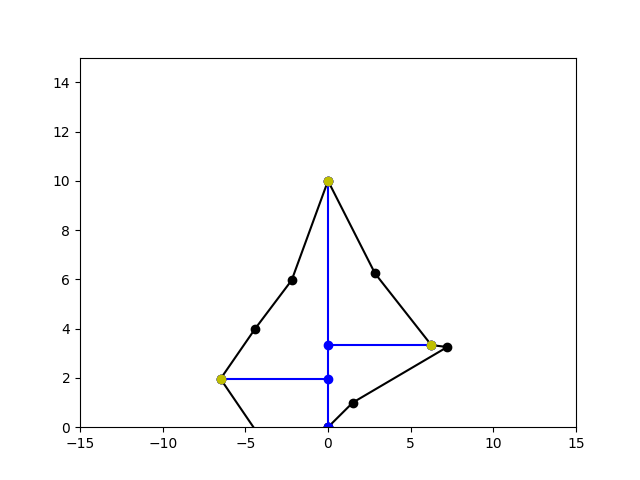
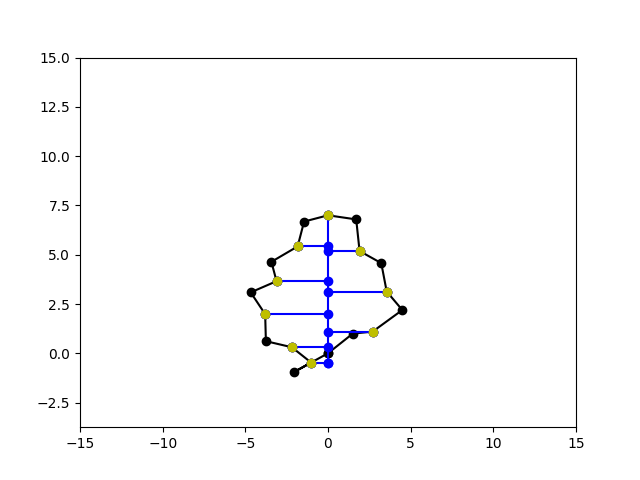
new_images added

diff --git a/Prototype1/growth.py b/Prototype1/growth.py
@@ -33,6 +33,7 @@ def bounding_distances(list_of_pts, left_pt, right_pt):
     for point in list_of_pts:
         pos.append(point.pos)
     # calculate distances to left
+    # print(f"pos: {pos}, left_pt.pos {[left_pt.pos]}")
     euc_res_left = euclidean_distances(pos, [left_pt.pos])
     # calculate distances to right
     euc_res_right = euclidean_distances(pos, [right_pt.pos])
@@ -41,9 +42,7 @@ def bounding_distances(list_of_pts, left_pt, right_pt):
     return euc_res_left, euc_res_right
 
 
-# LEAF DEVELOPMENT FUNCTIONS
-
-def interpolate_pts(pt_A, pt_B, leaf):
+def interpolate_pts(pt_A, pt_B, leaf, mustAdd):
     """Given two positions a new point is created between these points by linear interpolation"""
     x = [pt_A.pos[0], pt_B.pos[0]]
     y = [pt_A.pos[1], pt_B.pos[1]]
@@ -51,19 +50,30 @@ def interpolate_pts(pt_A, pt_B, leaf):
     xnew = np.linspace(x[0], x[1], num=3, endpoint=True)
     f = interp1d(x, y, kind='linear')
     ynew = f(xnew)
-    new_pt = Point([xnew[1], ynew[1]], 0, leaf.primordium_vein, 0, 0)
-    leaf.margin.insert_point(new_pt)
+
+    if mustAdd:
+        new_pt = Point([xnew[1], ynew[1]], 0, leaf.primordium_vein, 0, 0)
+        leaf.margin.insert_point(new_pt)
+    return [xnew[1], ynew[1]]
 
 
-def initialize_growth(leaf):
+# LEAF DEVELOPMENT FUNCTIONS
+
+def init_cp_indicators(leaf):
     cp_indicators, cp_index = leaf.margin.get_cp_indicators()
     print(f"cp_indicators:  {cp_indicators}, cp_index: {cp_index}")
     # check if points need to be interpolated
     if len(cp_index) > 1:
         prev_i = 0
+        # interpolate for the 0 index (separate due to special case index slicing)
+        if cp_index[0] == 1:
+            interpolate_pts(leaf.margin.points[0], leaf.margin.points[1], leaf, True)
+            cp_indicators, cp_index = leaf.margin.get_cp_indicators()
+            print(f"cp_indicators:  {cp_indicators}, cp_index: {cp_index}")
+        # interpolate if there are no points between cp
         for i in range(1, len(cp_index)):
             if (cp_index[i] - cp_index[prev_i]) <= 1:
-                interpolate_pts(leaf.margin.points[cp_index[prev_i]], leaf.margin.points[cp_index[i]], leaf)
+                interpolate_pts(leaf.margin.points[cp_index[prev_i]], leaf.margin.points[cp_index[i]], leaf, True)
                 # recalculate cp_indicators
                 cp_indicators, cp_index = leaf.margin.get_cp_indicators()
                 print(f"cp_indicators:  {cp_indicators}, cp_index: {cp_index}")
@@ -79,6 +89,7 @@ def hard_coded_cp_addition(leaf):
     leaf.margin.points[7].is_cp = 1
     # leaf.margin.points[8].is_cp = 1
     leaf.margin.check_conv_points()
+    return leaf
 
 
 def create_anchor_point(cp, vein_assoc):
@@ -95,12 +106,15 @@ def create_anchor_point(cp, vein_assoc):
     return anchor_pt
 
 
-def vein_addition(leaf, vein):
+def vein_addition(leaf):
     """Connects unconnected Cp's with vein and adds new vein to leaf."""
     for cp in leaf.margin.all_cp:
+        print(f"creating new vein for: {cp}")
         if cp.has_vein == 1:  # skip if already connected to a vein
+            print("has vein")
             continue
         else:
+            print("making new vein")
             # create new vein
             anchor_pt = create_anchor_point(cp, cp.vein_assoc)
             new_vein = Vein([anchor_pt, cp], anchor_pt, cp)
@@ -113,12 +127,13 @@ def vein_addition(leaf, vein):
 
             # add vein to leaf
             leaf.add_vein(new_vein)
+    return leaf
 
 
 def calculate_gr(dist, dir, gr):
     """multiply direction * gr * distance"""
 
-    # TODO ! Normalize distance from 0 to 1 ! if necessary for precision later
+    # TODO ! Normalize distance from 0 to 1 ? if necessary for precision later
     temp_growth = (gr * dir)/dist
     # print(f"dist { dist} temp_growth: {temp_growth}")
     return temp_growth
@@ -127,17 +142,20 @@ def calculate_gr(dist, dir, gr):
 def expand_veins(leaf, gr):
     """Expand the cp on margin in the direction of their veins
     by a growth rate (gr)"""
-    cp_indicators, cp_index = initialize_growth(leaf)
+    cp_indicators, cp_index = init_cp_indicators(leaf)
     prev_cp_i = 0
     gr_total = np.zeros((len(cp_indicators),2))
     # maybe change to 0 later or just to a minimal value instead?
     prev_vein_dir = -1 * normalize_vec(leaf.primordium_vein.get_vector())
-    # print(leaf.margin.print_points())
     for i in range(1, len(cp_indicators)):
         if cp_indicators[i] == 1 or cp_index == []:
+            # TODO ! Bug: Last point doesn't grow with the rest
             if cp_index == []:
                 next_cp_i = 0
-                margin_part = leaf.margin.points[(prev_cp_i + 1):(len(cp_indicators)-1)]
+                if (prev_cp_i + 1) == (len(cp_indicators)-1):
+                    margin_part = [leaf.margin.points[(prev_cp_i + 1)]]
+                else:
+                    margin_part = leaf.margin.points[(prev_cp_i + 1):(len(cp_indicators)-1)]
             else:
                 next_cp_i = cp_index[0]
                 margin_part = leaf.margin.points[(prev_cp_i + 1):next_cp_i]
@@ -157,14 +175,82 @@ def expand_veins(leaf, gr):
             if cp_index == []:
                 gr_total[(prev_cp_i + 1):len(cp_indicators)-1] = temp_next + temp_prev
                 leaf.margin.grow(gr_total)
-                return 0
+                return leaf
             else:
                 gr_total[(prev_cp_i + 1):next_cp_i] = temp_next + temp_prev
                 gr_total[next_cp_i] = np.multiply(next_vein_dir, gr)
                 cp_index = cp_index[1:]
-            # print(f" gr_total[{prev_cp_i + 1}:{next_cp_i}]: {gr_total}")
 
             # move margin for next iteration
             prev_cp_i = next_cp_i
             prev_vein_dir = next_vein_dir
     return 1
+
+
+def calculate_margin_distance(margin_part):
+    """calculates the length of a margin section, from cp to cp"""
+    dist_array = np.zeros(len(margin_part))
+
+    prev_pt = margin_part[0]
+    for i in range(len(margin_part)):
+        pt = margin_part[i]
+        dist_array[i] = euclidean_distances([pt.pos], [prev_pt.pos])
+        prev_pt = pt
+
+    dist_sum = dist_array.sum()
+
+    return dist_array, dist_sum
+
+
+def insert_cp(vein_assoc, margin_part, dist_array, dist_sum):
+    """Inserts a new cp in the middle of two cps."""
+
+    middle = dist_sum/2
+    temp_dist = 0
+    pos = np.zeros(2)
+    for i in range(1, len(dist_array)):
+        temp_dist += dist_array[i]
+        if temp_dist >= middle:
+            pos = interpolate_pts(margin_part[i-1], margin_part[i], None, False)
+            break
+
+    new_cp = Point(pos, 1, vein_assoc, 0, 0)
+
+    return new_cp
+
+
+def introduce_new_cp(leaf, cp_th):
+    """Introduces new cp where the boundary distance exceeds a certain distance threshold"""
+    cp_indicators, cp_index = init_cp_indicators(leaf)
+    prev_cp_i = 0
+    new_cps = []
+    for i in range(1, len(cp_indicators)):
+        # define next margin part
+        if cp_indicators[i] == 1 or cp_index == []:
+            if cp_index == []:
+                margin_part = leaf.margin.points[prev_cp_i:(len(cp_indicators)-1)]
+                margin_part = margin_part + [leaf.margin.end_point]
+            else:
+                next_cp_i = cp_index[0]
+                margin_part = leaf.margin.points[prev_cp_i:(next_cp_i+1)]
+            print(f"cp_index = {cp_index}")
+
+            # insert new cp if it exceeds the margin
+            dist_array, dist_sum = calculate_margin_distance(margin_part)
+            if cp_th < dist_sum:
+                new_cps.append(insert_cp([leaf.primordium_vein], margin_part, dist_array, dist_sum))
+            print(f"number of cp's to add: {len(new_cps)}")
+
+            if cp_index == []:
+                for cp in new_cps:
+                    print(f"new_cp: {cp}")
+                    leaf.margin.insert_point(cp)
+                    leaf.margin.check_conv_points()
+                return leaf
+            # prepare for next iteration
+            else:
+                cp_index = cp_index[1:]
+                prev_cp_i = next_cp_i
+
+    return 1
+

diff --git a/Prototype1/Main.py b/Prototype1/Main.py
@@ -14,15 +14,19 @@ def main():
     vis.plot_leaf(leaf, 15, LEAF_PATH, BASE_NAME, 0)
     for i in range(STEPS):
         # growstep driven by expansion of veins
-        expand_veins(leaf, 0.5)
+        leaf = expand_veins(leaf, 0.2)
         # modification of morphogen distribution
 
         # new convergence points & possible new morphogen distribution
         if i == 0:
-            hard_coded_cp_addition(leaf)
+            leaf = hard_coded_cp_addition(leaf)
+        else:
+            leaf = introduce_new_cp(leaf, 3.5)
+            print(f"len of margin: {len(leaf.margin.points)}")
+            print(f"all cp len: {len(leaf.margin.all_cp)}")
 
         # new vein addition
-        vein_addition(leaf, leaf.primordium_vein)
+        leaf = vein_addition(leaf)
 
         # plot leaf
         vis.plot_leaf(leaf, 15, LEAF_PATH, BASE_NAME, i+1)

diff --git a/Prototype1/visualization.py b/Prototype1/visualization.py
@@ -27,7 +27,7 @@ def plot_leaf(leaf, dim, path, name, step):  # base_point, all_veins, margin, al
     x_cp, y_cp, pos_cp = leaf.margin.get_cp_pos()
     plt.plot(x_cp, y_cp, 'yo')
 
-    plt.axis([-dim, dim, 0, dim])
+    plt.axis([-dim, dim, -dim/4, dim])
     plt.savefig(path + name + str(step) + ".png", format="PNG")
     plt.clf()
 
